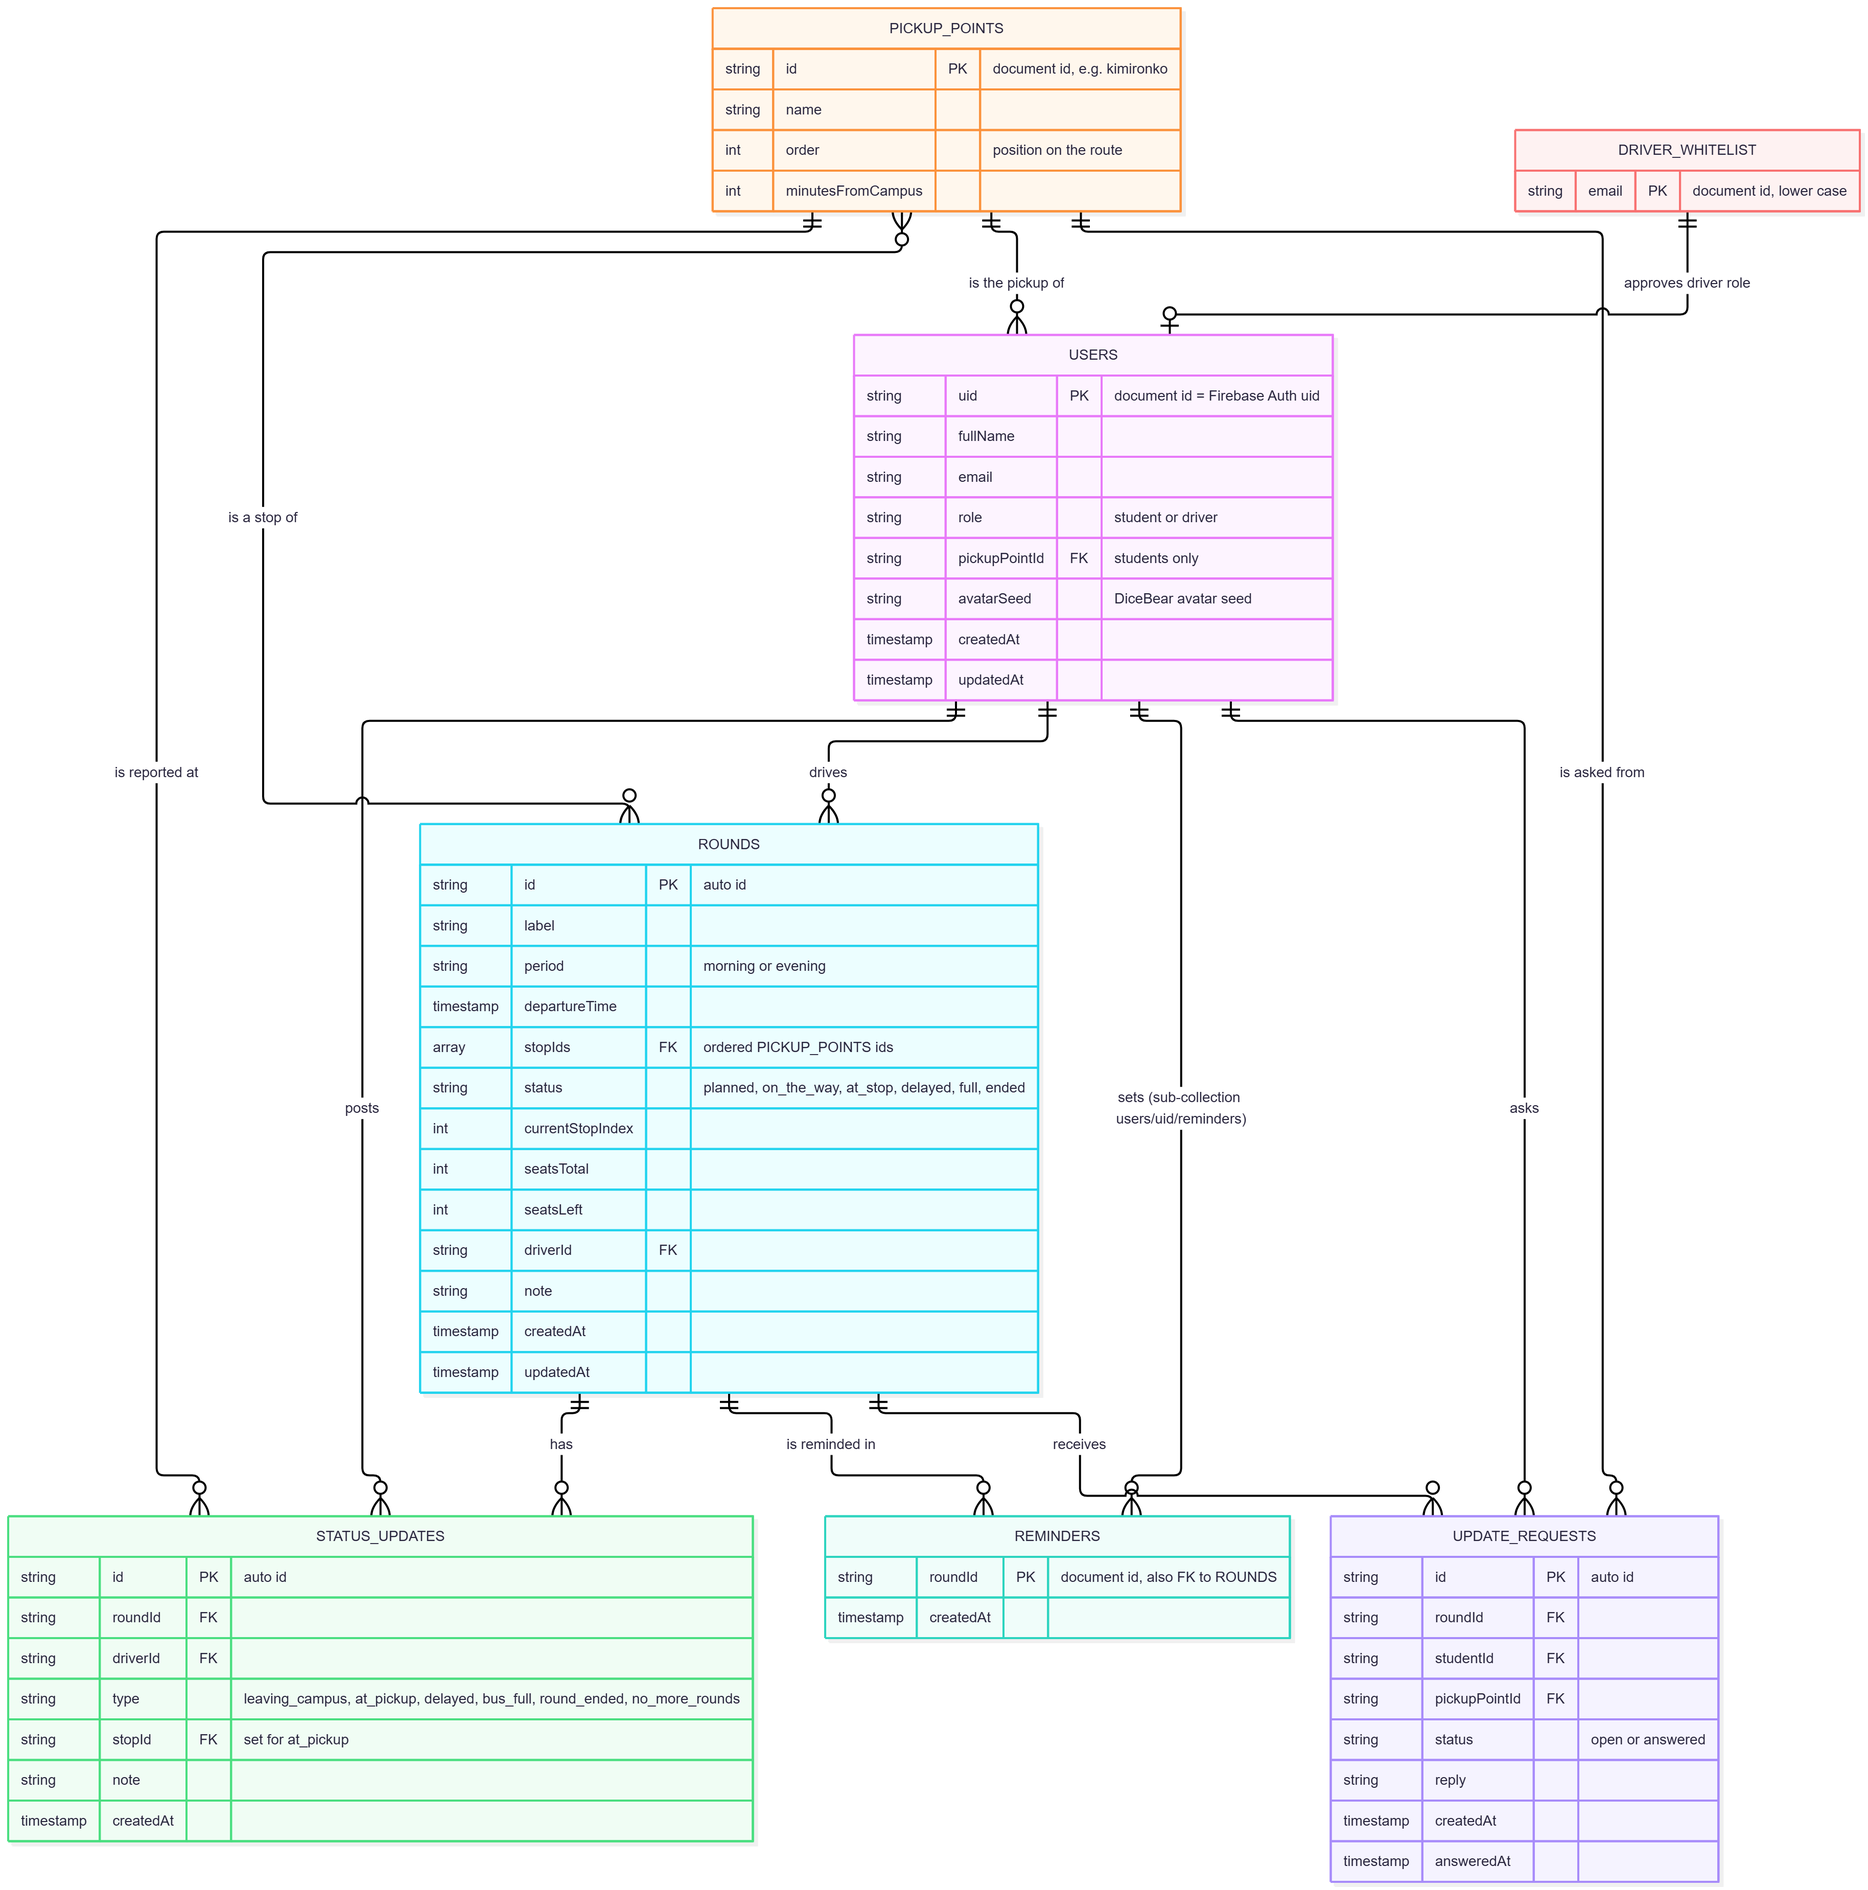
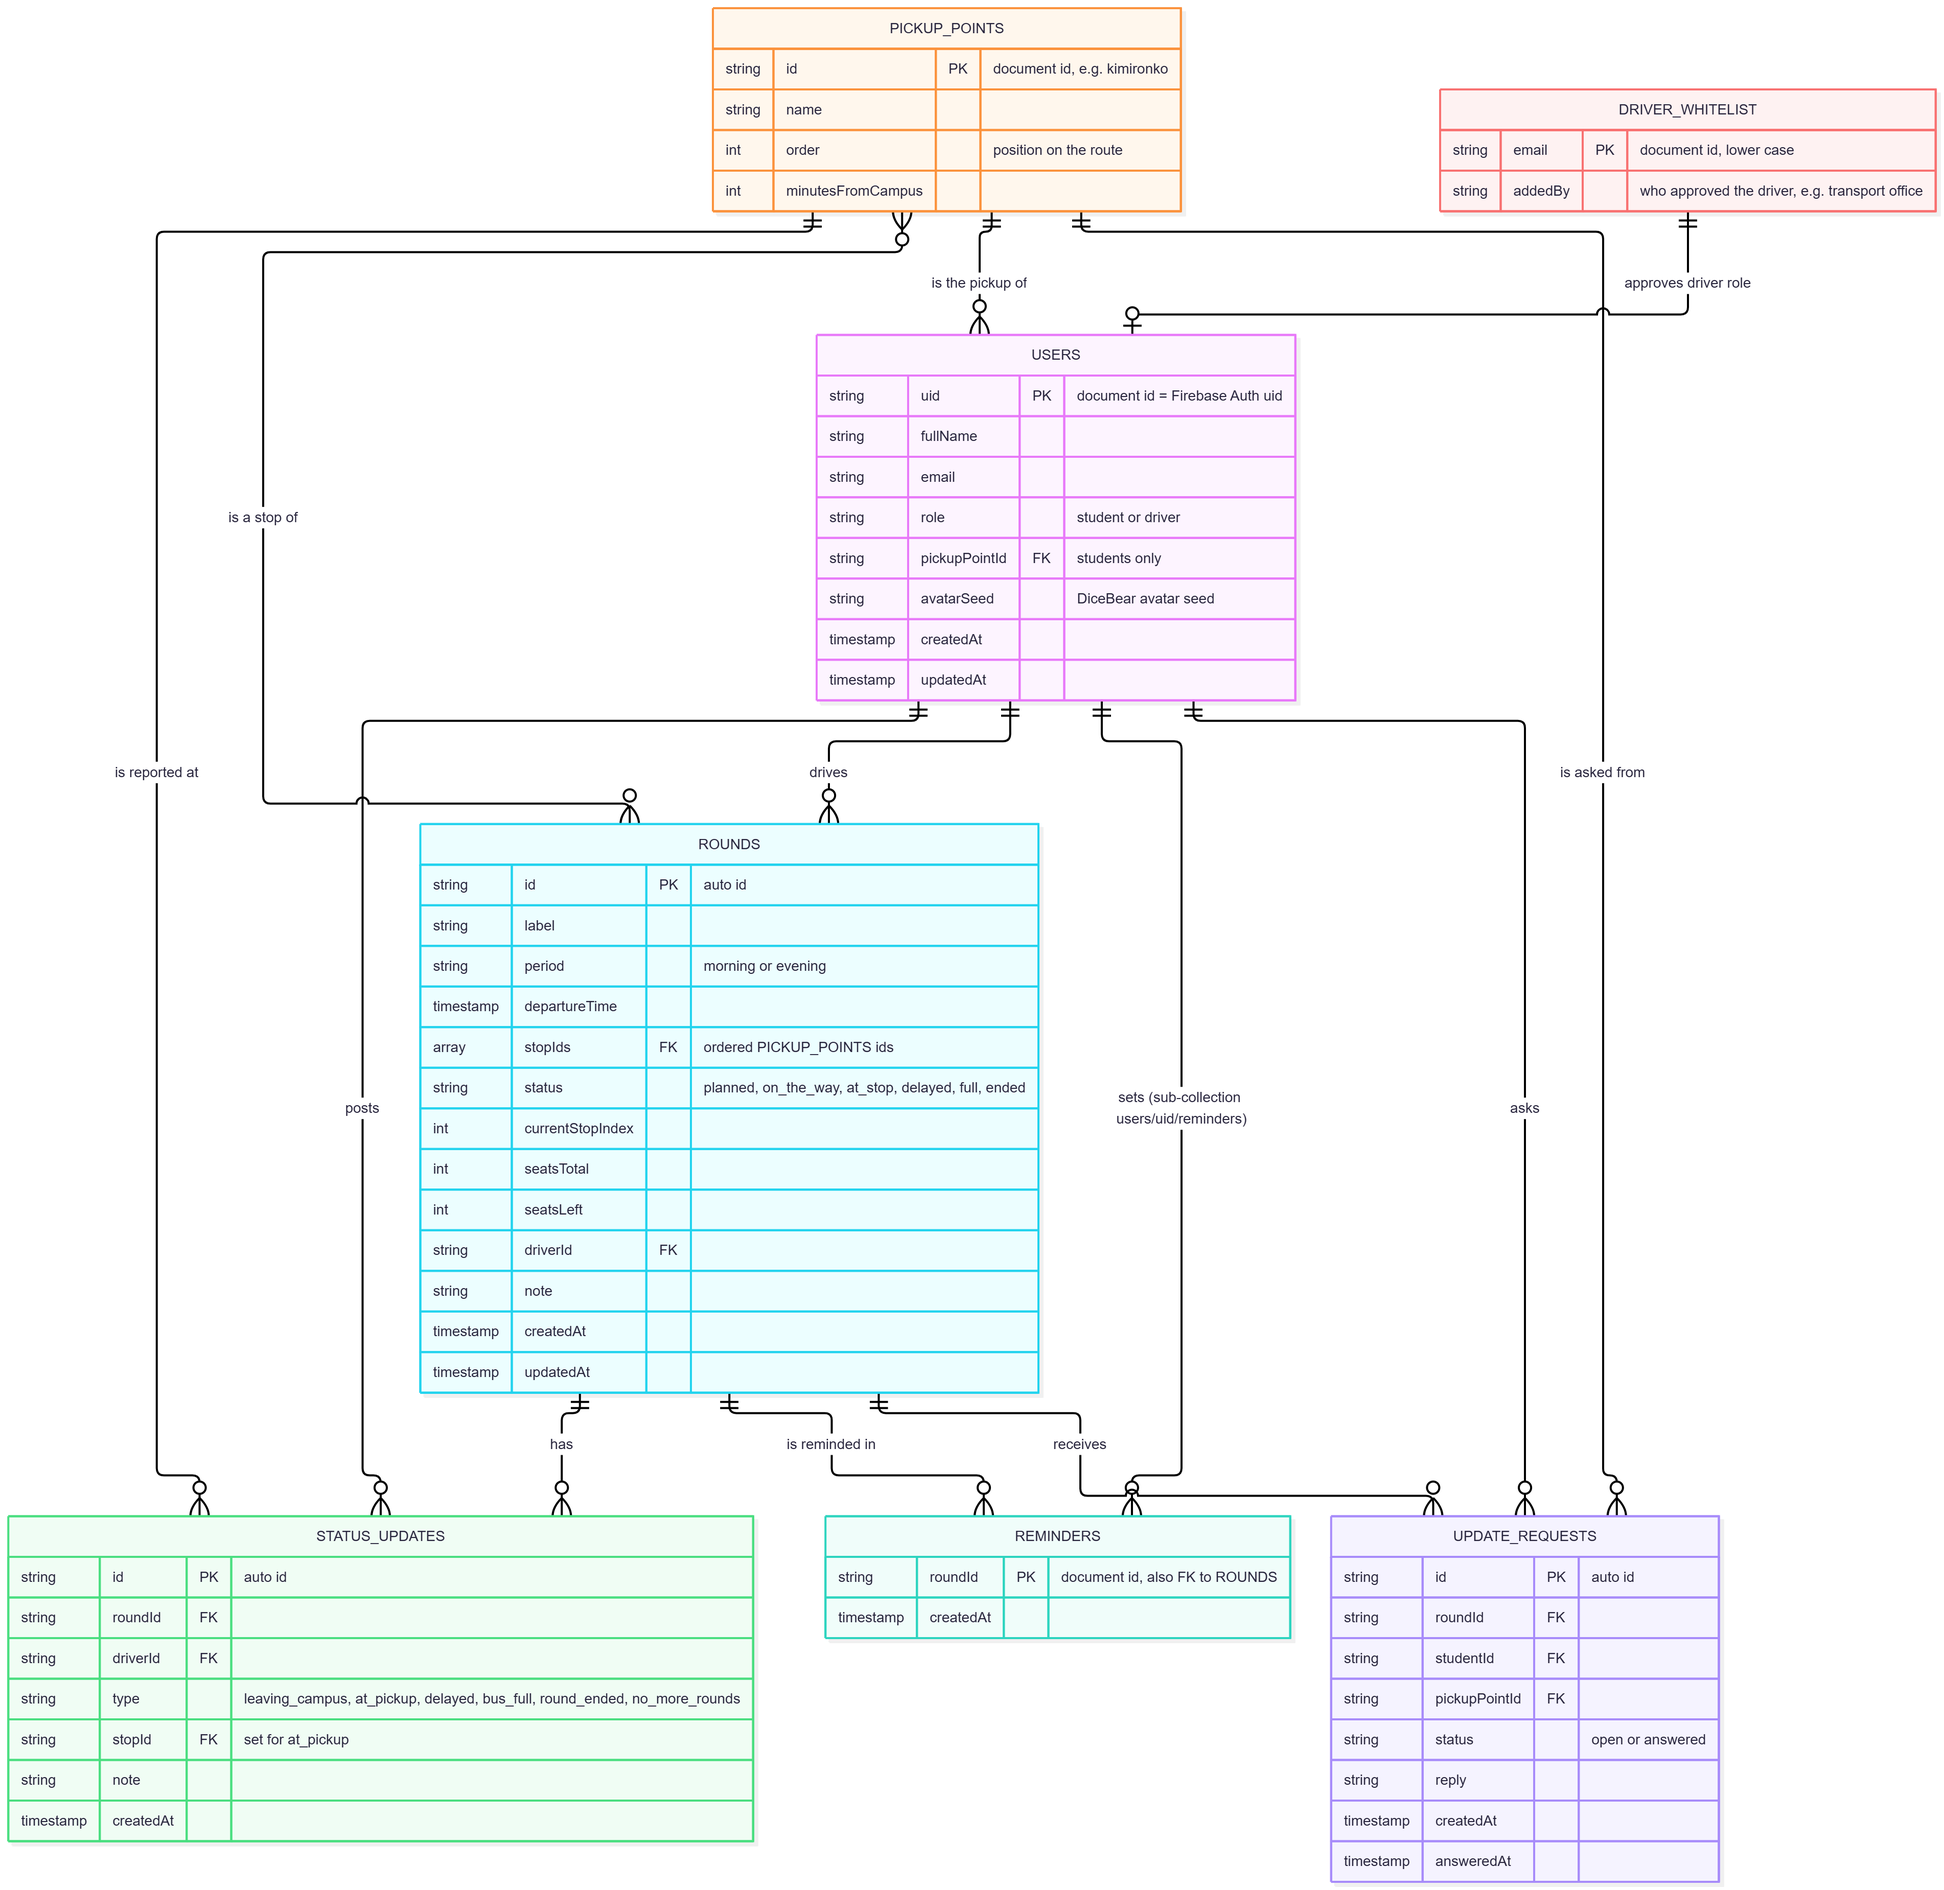
docs(db): add addedBy field to driver_whitelist in ERD

diff --git a/docs/erd.md b/docs/erd.md
@@ -61,6 +61,7 @@ erDiagram
     }
     DRIVER_WHITELIST {
         string email PK "document id, lower case"
+        string addedBy "who approved the driver, e.g. transport office"
     }
 
     USERS ||--o{ REMINDERS : "sets (sub-collection users/uid/reminders)"
@@ -79,15 +80,15 @@ erDiagram
 
 ## How the ERD maps to Firestore
 
-| Entity           | Firestore path                    | Who can write (see `firestore.rules`)                                   |
-| ---------------- | --------------------------------- | ----------------------------------------------------------------------- |
-| USERS            | `users/{uid}`                     | Only the owner. Role and email cannot change after setup.               |
-| REMINDERS        | `users/{uid}/reminders/{roundId}` | Only the owner. Doc id = round id, so no duplicates.                    |
-| PICKUP_POINTS    | `pickup_points/{id}`              | Drivers only. Everyone signed in can read.                              |
-| ROUNDS           | `rounds/{id}`                     | The driver who owns the round. Seats must stay between 0 and the total. |
-| STATUS_UPDATES   | `status_updates/{id}`             | Drivers create and delete their own; nobody edits.                      |
-| UPDATE_REQUESTS  | `update_requests/{id}`            | Students create and delete their own; the driver can only add a reply.  |
-| DRIVER_WHITELIST | `driver_whitelist/{email}`        | Nobody from the app. The transport office adds emails in the console.   |
+| Entity           | Firestore path                    | Who can write (see `firestore.rules`)                                                                          |
+| ---------------- | --------------------------------- | -------------------------------------------------------------------------------------------------------------- |
+| USERS            | `users/{uid}`                     | Only the owner. Role and email cannot change after setup.                                                      |
+| REMINDERS        | `users/{uid}/reminders/{roundId}` | Only the owner. Doc id = round id, so no duplicates.                                                           |
+| PICKUP_POINTS    | `pickup_points/{id}`              | Drivers only. Everyone signed in can read.                                                                     |
+| ROUNDS           | `rounds/{id}`                     | The driver who owns the round. Seats must stay between 0 and the total.                                        |
+| STATUS_UPDATES   | `status_updates/{id}`             | Drivers create and delete their own; nobody edits.                                                             |
+| UPDATE_REQUESTS  | `update_requests/{id}`            | Students create and delete their own; the driver can only add a reply.                                         |
+| DRIVER_WHITELIST | `driver_whitelist/{email}`        | Nobody from the app. The transport office adds emails in the console, with `addedBy` set to who approved them. |
 
 No data is copied between collections. Names (stop name, round name, driver
 name) are looked up by id when a screen shows them.
